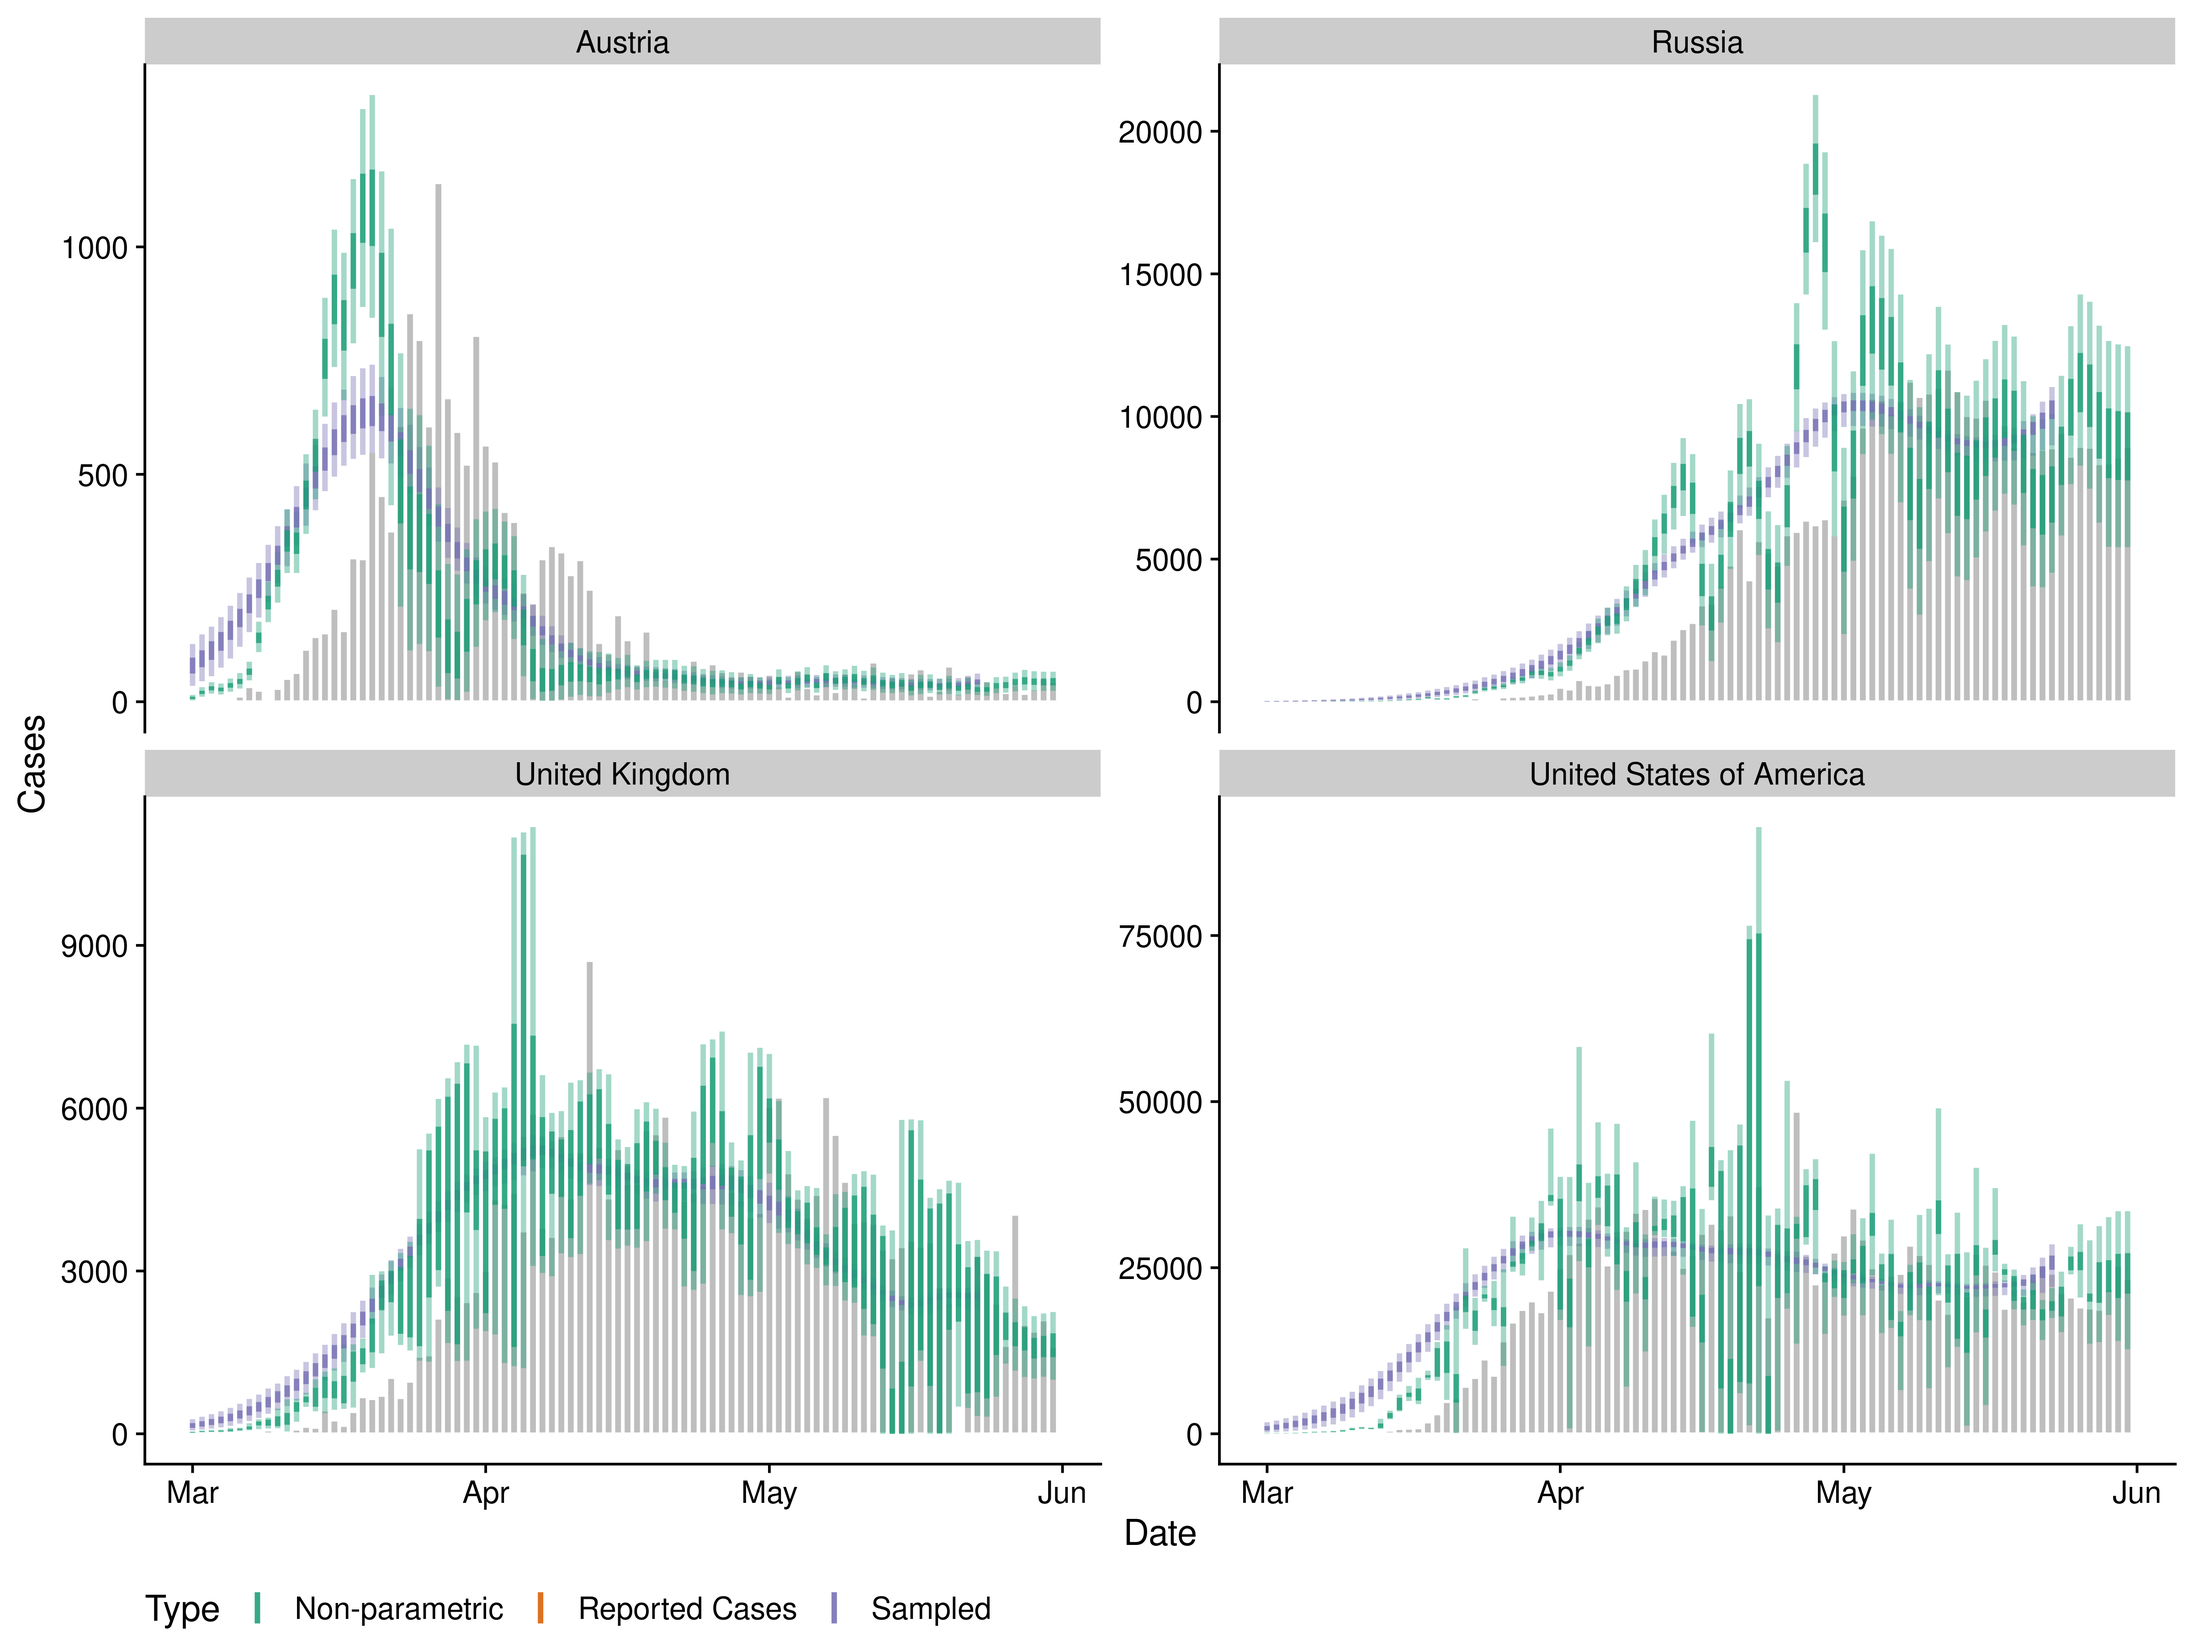
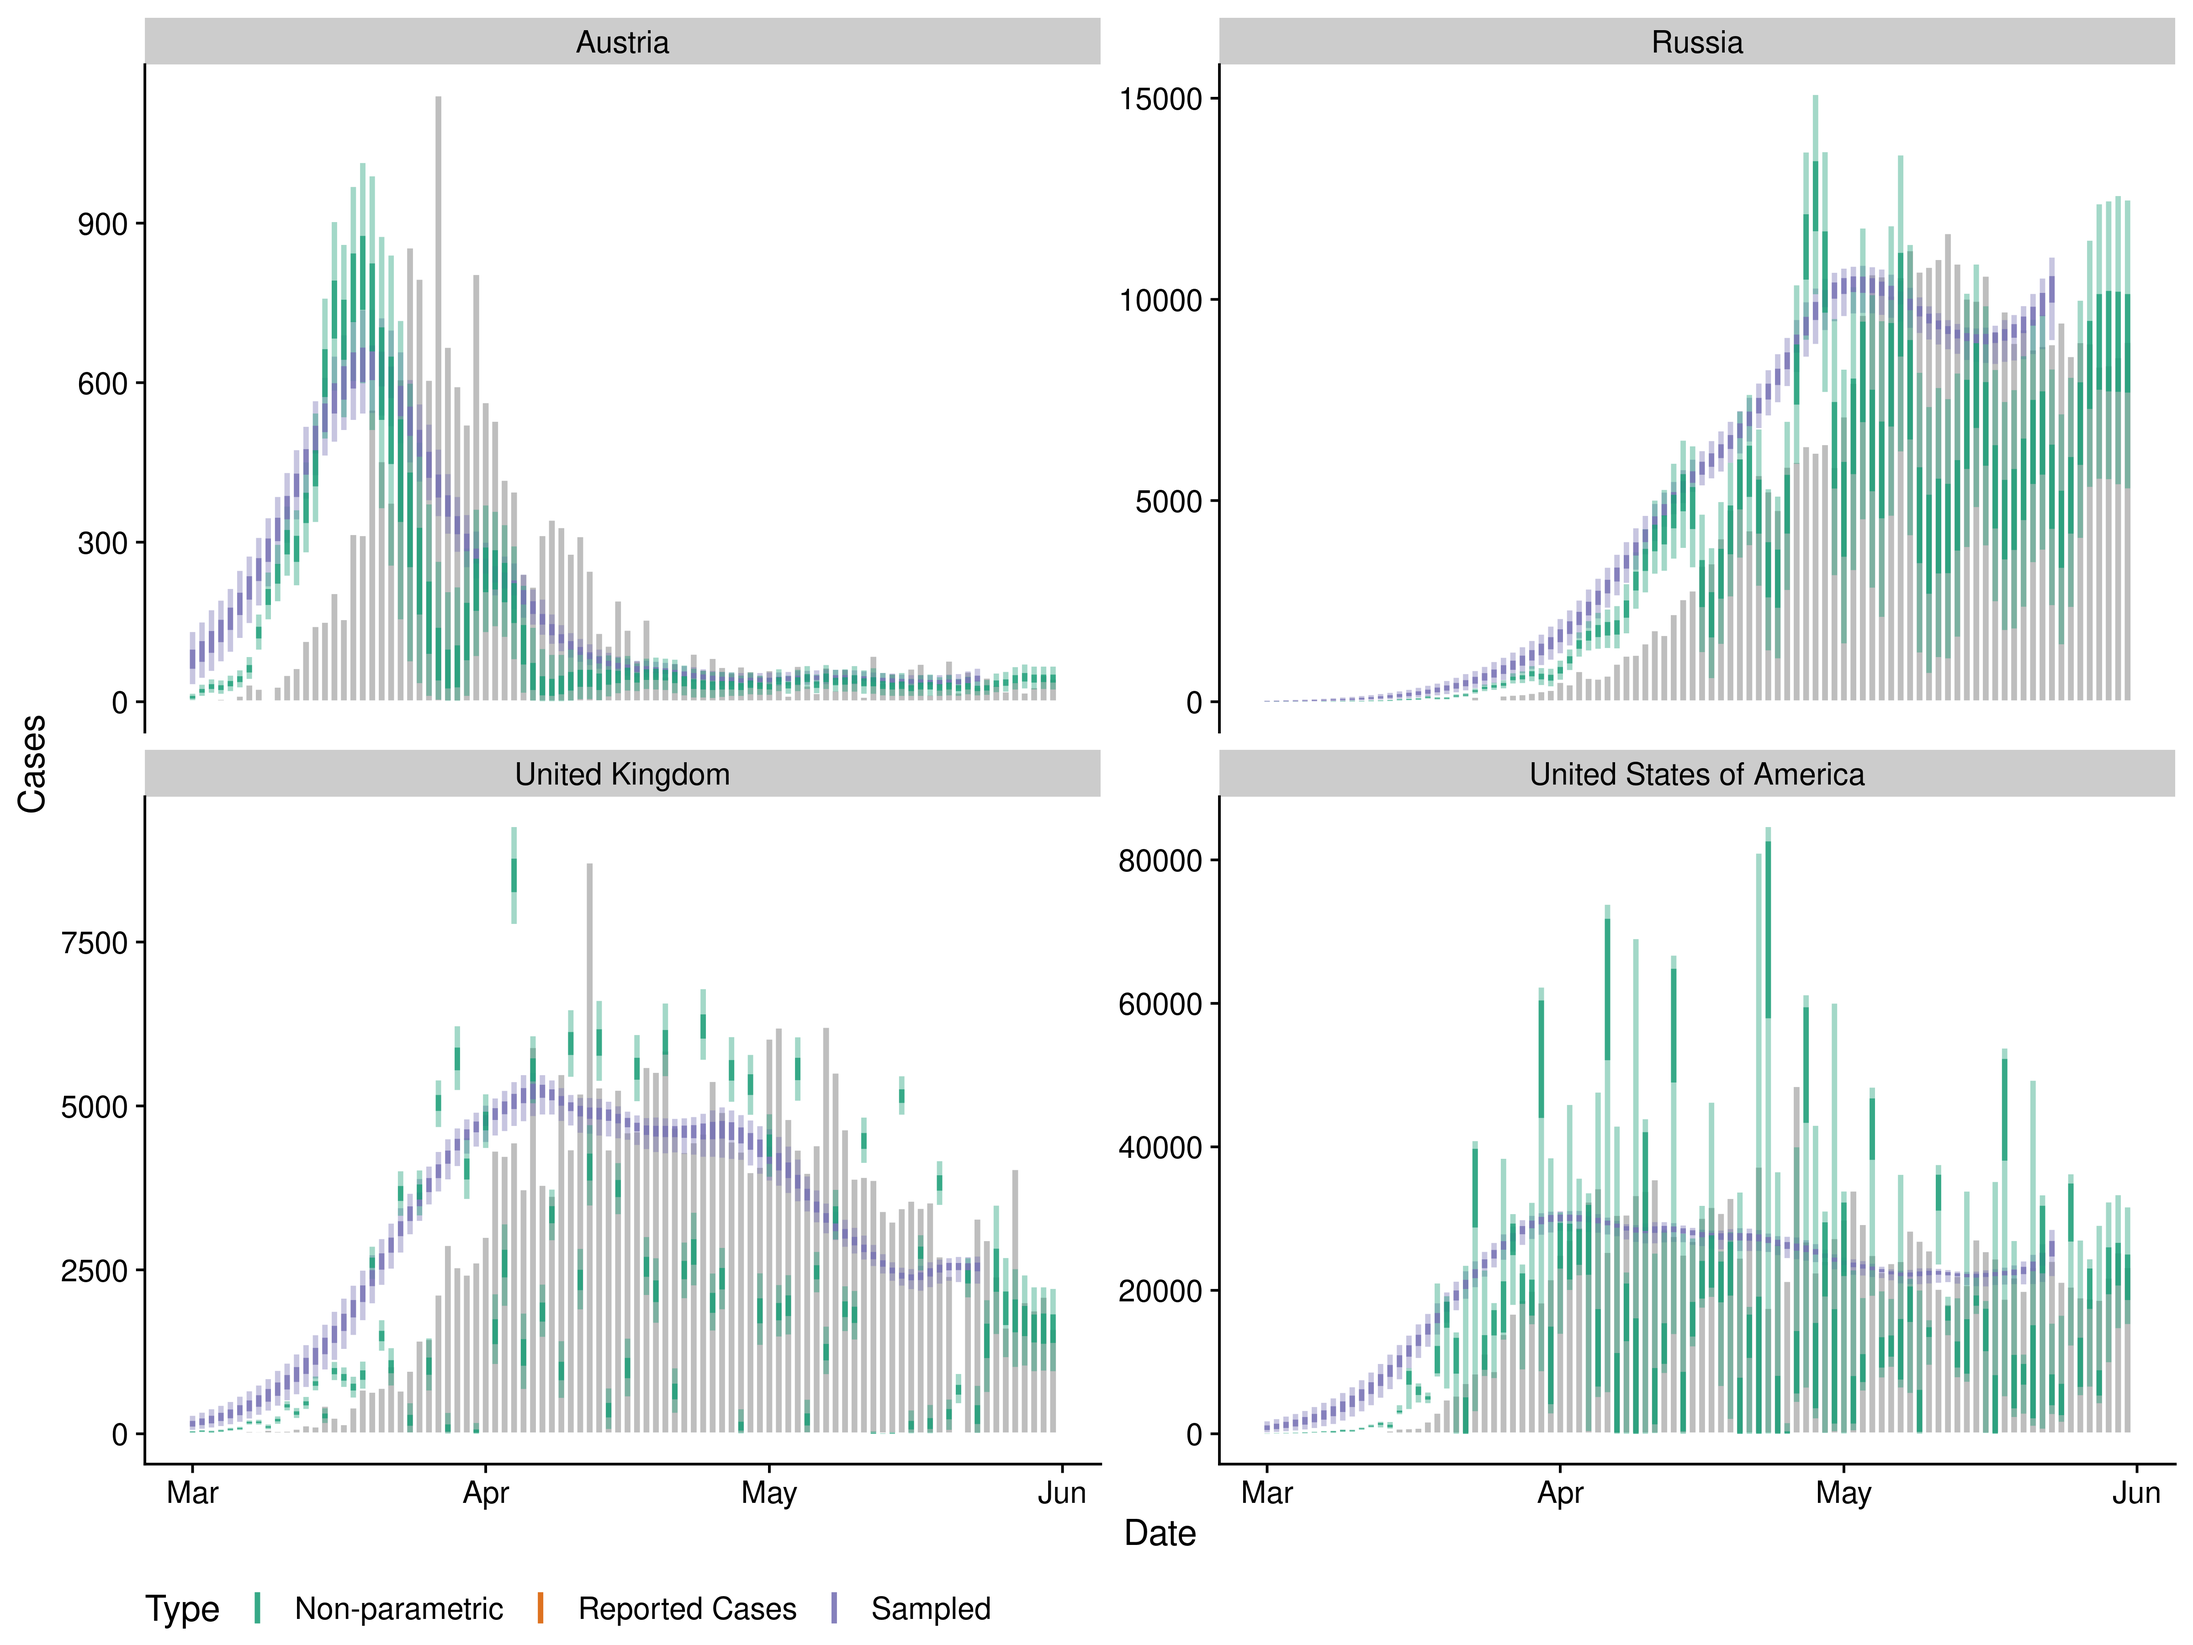
updated report

diff --git a/report.md b/report.md
@@ -147,7 +147,7 @@ model
 #>      
 #>   // Add reporting effects
 #>   for (s in 1:t) {
-#>       reports[s] = reports[s] + day_of_week_eff[day_of_week[s]];
+#>       reports[s] = reports[s] * day_of_week_eff[day_of_week[s]];
 #>     }
 #> }
 #> 
@@ -256,20 +256,20 @@ incubation_defs <- EpiNow::lognorm_dist_def(mean = incubation_period$mean,
 simulated_cases <- EpiNow::simulate_cases(rts, initial_cases = 100 , initial_date = as.Date("2020-03-01"),
                                           generation_interval = generation_interval, delay_def = delay_defs[1, ],
                                           incubation_def = incubation_defs[1, ],
-                                          reporting_effect = c(1, rep(1, 4), 1, 1))
+                                          reporting_effect = c(1.4, rep(1, 4), 0.8, 0.8))
 simulated_cases
 #>            date cases reference
-#>   1: 2020-03-02    45 infection
-#>   2: 2020-03-03    62 infection
-#>   3: 2020-03-04    79 infection
-#>   4: 2020-03-05   112 infection
-#>   5: 2020-03-06   115 infection
+#>   1: 2020-03-02    47 infection
+#>   2: 2020-03-03    58 infection
+#>   3: 2020-03-04    82 infection
+#>   4: 2020-03-05    84 infection
+#>   5: 2020-03-06   137 infection
 #>  ---                           
-#> 176: 2020-04-27   723    report
-#> 177: 2020-04-28   685    report
-#> 178: 2020-04-29   712    report
-#> 179: 2020-04-30   719    report
-#> 180: 2020-05-01   695    report
+#> 177: 2020-04-27  1089    report
+#> 178: 2020-04-28   784    report
+#> 179: 2020-04-29   833    report
+#> 180: 2020-04-30   846    report
+#> 181: 2020-05-01   898    report
 ```
 
 ### Compare approaches on simulated data
@@ -360,14 +360,14 @@ names(results) <- countries
 
 ``` r
 non_parametric_cases$day_of_week[, as.list(summary(value)), by = "wday"]
-#>         wday      Min.   1st Qu.   Median     Mean  3rd Qu.     Max.
-#> 1:    Monday 0.6531128 0.9389250 1.006474 1.006355 1.075732 1.348900
-#> 2:   Tuesday 0.6705243 0.9460390 1.014237 1.013279 1.078896 1.344906
-#> 3: Wednesday 0.6909572 0.9719831 1.038883 1.039439 1.107212 1.415151
-#> 4:  Thursday 0.6745624 0.9710853 1.036486 1.037105 1.104638 1.363101
-#> 5:    Friday 0.7081111 0.9576162 1.026617 1.026970 1.094591 1.359541
-#> 6:  Saturday 0.6371281 0.9531312 1.018702 1.018458 1.083130 1.387912
-#> 7:    Sunday 0.6373807 0.9477402 1.013375 1.012993 1.078210 1.431345
+#>         wday     Min.  1st Qu.   Median     Mean  3rd Qu.     Max.
+#> 1:    Monday 1.932555 2.039993 2.064191 2.064631 2.089676 2.187793
+#> 2:   Tuesday 1.379343 1.456252 1.475465 1.474978 1.493991 1.575558
+#> 3: Wednesday 1.361287 1.429518 1.448668 1.448489 1.466445 1.542099
+#> 4:  Thursday 1.369341 1.451050 1.469386 1.469529 1.488405 1.559576
+#> 5:    Friday 1.387628 1.473326 1.492800 1.492694 1.512469 1.582943
+#> 6:  Saturday 1.122655 1.188159 1.204404 1.204294 1.220213 1.281799
+#> 7:    Sunday 1.112569 1.174945 1.190271 1.190706 1.206478 1.264502
 ```
 
   - Recover reporting delays
@@ -379,9 +379,9 @@ data.table::rbindlist(list(
   non_parametric_cases$rep_mean[, .(parameter = "mean", mean = mean(value), sd = sd(value))],
   non_parametric_cases$rep_sd[, .(parameter = "sd", mean = mean(value), sd = sd(value))]
 ))
-#>    parameter      mean         sd
-#> 1:      mean 1.4433687 0.01065322
-#> 2:        sd 0.6825381 0.02293643
+#>    parameter     mean         sd
+#> 1:      mean 1.505150 0.01130677
+#> 2:        sd 0.720133 0.02236390
 ```
 
   - Recover incubation period
@@ -393,9 +393,9 @@ data.table::rbindlist(list(
   non_parametric_cases$inc_mean[, .(parameter = "mean", mean = mean(value), sd = sd(value))],
   non_parametric_cases$inc_sd[, .(parameter = "sd", mean = mean(value), sd = sd(value))]
 ))
-#>    parameter      mean          sd
-#> 1:      mean 1.5322065 0.007319253
-#> 2:        sd 0.4162286 0.008369779
+#>    parameter     mean          sd
+#> 1:      mean 1.564275 0.007857272
+#> 2:        sd 0.423359 0.008674002
 ```
 
   - Prepare data for
@@ -477,44 +477,44 @@ country
 ``` r
 purrr::map(results, ~ .[[2]]$day_of_week[, as.list(summary(value)), by = "wday"])
 #> $Austria
-#>         wday      Min.   1st Qu.    Median      Mean  3rd Qu.     Max.
-#> 1:    Monday 0.6676412 0.9082673 0.9705402 0.9708311 1.033064 1.269980
-#> 2:   Tuesday 0.6823819 0.9412162 1.0115988 1.0114968 1.081092 1.338786
-#> 3: Wednesday 0.6811634 0.9709987 1.0364106 1.0366825 1.101619 1.353460
-#> 4:  Thursday 0.6712391 0.9373902 1.0033408 1.0024368 1.065378 1.320292
-#> 5:    Friday 0.6769254 0.9802820 1.0448640 1.0439294 1.108840 1.441265
-#> 6:  Saturday 0.7380218 0.9883838 1.0544996 1.0545595 1.119756 1.451243
-#> 7:    Sunday 0.6480144 0.9430145 1.0083213 1.0106952 1.079246 1.352951
+#>         wday     Min.  1st Qu.   Median     Mean  3rd Qu.     Max.
+#> 1:    Monday 0.973892 1.075394 1.097118 1.097280 1.118496 1.210141
+#> 2:   Tuesday 1.281461 1.414582 1.438716 1.439790 1.464434 1.612219
+#> 3: Wednesday 1.302631 1.400197 1.423567 1.424551 1.448971 1.552925
+#> 4:  Thursday 1.145108 1.262120 1.286164 1.285877 1.309090 1.406093
+#> 5:    Friday 1.436936 1.560814 1.587052 1.587381 1.612478 1.736793
+#> 6:  Saturday 1.263272 1.363495 1.388416 1.388650 1.413155 1.510942
+#> 7:    Sunday 1.012271 1.095188 1.116443 1.116854 1.137589 1.235215
 #> 
 #> $`United Kingdom`
-#>         wday      Min.   1st Qu.    Median      Mean  3rd Qu.     Max.
-#> 1:    Monday 0.7170574 0.9729175 1.0333132 1.0360217 1.098460 1.337587
-#> 2:   Tuesday 0.6920269 0.9007676 0.9660277 0.9710540 1.038142 1.361025
-#> 3: Wednesday 0.6136879 0.8990833 0.9685049 0.9675503 1.031976 1.282991
-#> 4:  Thursday 0.6608970 0.9325952 1.0063383 1.0020748 1.070177 1.293154
-#> 5:    Friday 0.6775243 0.9407865 1.0037941 1.0014117 1.065738 1.332668
-#> 6:  Saturday 0.6342760 0.8941373 0.9582596 0.9606533 1.019865 1.288180
-#> 7:    Sunday 0.5559364 0.9443237 1.0097812 1.0065518 1.072582 1.338212
+#>         wday     Min.  1st Qu.   Median     Mean  3rd Qu.     Max.
+#> 1:    Monday 1.277163 1.385064 1.410641 1.410697 1.435817 1.531626
+#> 2:   Tuesday 1.006268 1.085404 1.104328 1.104287 1.123556 1.233610
+#> 3: Wednesday 1.623342 1.750551 1.779856 1.781879 1.812062 1.943869
+#> 4:  Thursday 1.641096 1.754944 1.782326 1.783924 1.810681 1.934595
+#> 5:    Friday 1.600699 1.741114 1.779962 1.780280 1.819059 1.938234
+#> 6:  Saturday 1.293624 1.375608 1.395637 1.395360 1.415627 1.518421
+#> 7:    Sunday 1.457151 1.572298 1.596765 1.597317 1.621200 1.733982
 #> 
 #> $`United States of America`
-#>         wday      Min.   1st Qu.    Median      Mean  3rd Qu.     Max.
-#> 1:    Monday 0.7043513 0.9566500 1.0197883 1.0149411 1.086477 1.325957
-#> 2:   Tuesday 0.6052378 0.9368829 1.0032742 0.9977316 1.064806 1.276176
-#> 3: Wednesday 0.6636453 0.9150954 0.9792785 0.9788117 1.041976 1.303144
-#> 4:  Thursday 0.6673683 0.9285620 0.9892827 0.9901722 1.046135 1.352933
-#> 5:    Friday 0.6380658 0.9108173 0.9779014 0.9751748 1.045234 1.269551
-#> 6:  Saturday 0.7440121 0.9582427 1.0355591 1.0295605 1.097019 1.332505
-#> 7:    Sunday 0.5485954 0.9078415 0.9637312 0.9698021 1.032676 1.376006
+#>         wday      Min.  1st Qu.   Median     Mean  3rd Qu.     Max.
+#> 1:    Monday 0.7896457 1.185581 1.346158 1.228098 1.362433 1.430547
+#> 2:   Tuesday 0.8229694 1.292526 1.485230 1.343167 1.503736 1.584121
+#> 3: Wednesday 1.1889584 1.609948 1.766987 1.672611 1.788958 1.876931
+#> 4:  Thursday 1.1357123 1.230992 1.245342 1.275228 1.275552 1.513721
+#> 5:    Friday 1.2617045 1.604421 1.628124 1.603742 1.648593 1.735145
+#> 6:  Saturday 1.2553469 1.596845 1.734478 1.654201 1.758730 1.856069
+#> 7:    Sunday 1.2648356 1.663881 1.841991 1.731228 1.867345 1.968917
 #> 
 #> $Russia
-#>         wday      Min.   1st Qu.    Median      Mean  3rd Qu.     Max.
-#> 1:    Monday 0.6252180 0.8916495 0.9574409 0.9561427 1.022383 1.306335
-#> 2:   Tuesday 0.6218777 0.8865631 0.9546156 0.9530230 1.020383 1.272346
-#> 3: Wednesday 0.6233002 0.8816429 0.9505116 0.9508674 1.017215 1.336985
-#> 4:  Thursday 0.6596167 0.9356895 1.0055498 1.0048379 1.072138 1.359064
-#> 5:    Friday 0.6163192 0.9119753 0.9807886 0.9794271 1.047413 1.310278
-#> 6:  Saturday 0.6841621 0.9678324 1.0354739 1.0354877 1.103153 1.349413
-#> 7:    Sunday 0.5749125 0.8910831 0.9597149 0.9593049 1.028179 1.341275
+#>         wday     Min.  1st Qu.   Median     Mean  3rd Qu.     Max.
+#> 1:    Monday 1.510547 1.566890 1.584560 1.584075 1.600729 1.658784
+#> 2:   Tuesday 1.441606 1.496855 1.513474 1.513365 1.529672 1.595445
+#> 3: Wednesday 1.441574 1.503308 1.519837 1.519792 1.536460 1.598696
+#> 4:  Thursday 1.376055 1.430883 1.446421 1.446630 1.462402 1.524792
+#> 5:    Friday 1.399912 1.462178 1.478360 1.478414 1.493975 1.553627
+#> 6:  Saturday 1.441327 1.507122 1.523094 1.523456 1.539572 1.601130
+#> 7:    Sunday 1.459642 1.517685 1.534633 1.534355 1.550368 1.617946
 ```
 
   - Prepare data for
